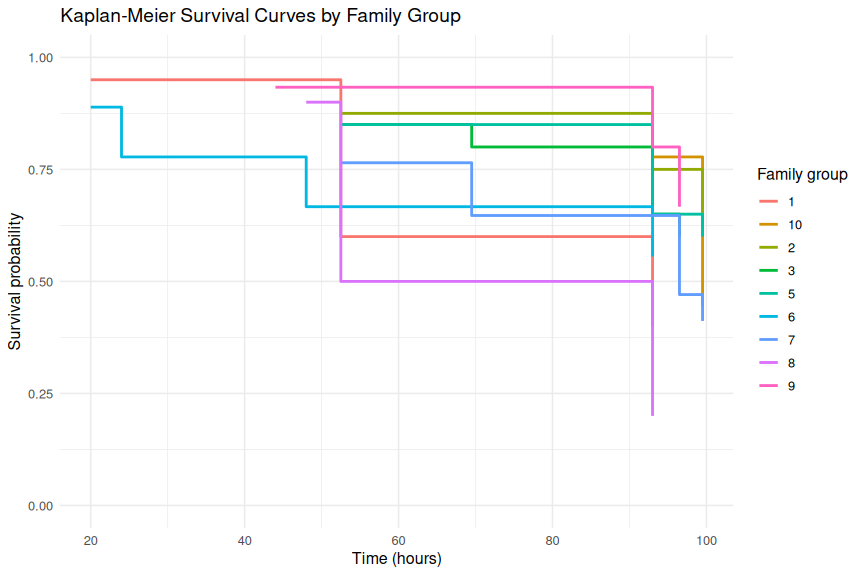
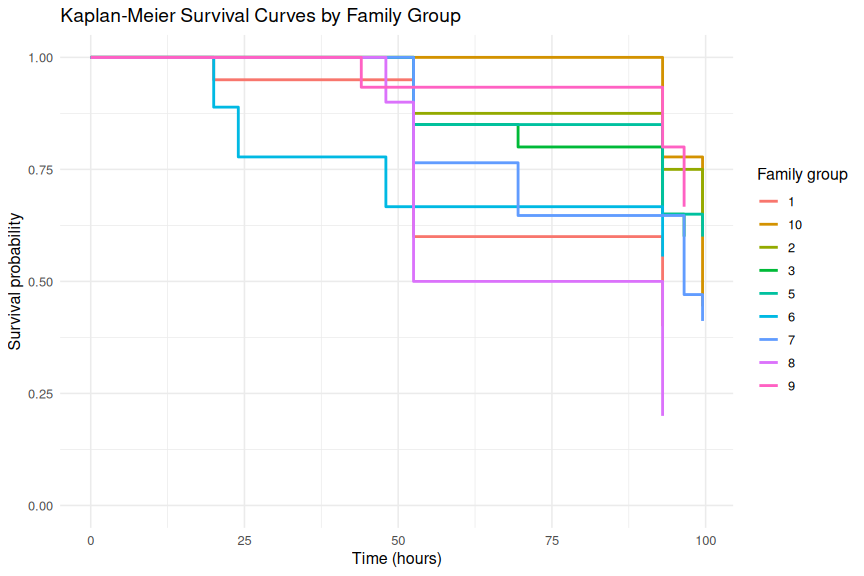
update plotting data frames to start from T0 for Kaplan-Meier results

diff --git a/scripts/00.00-mgig-heat-survivorship.md b/scripts/00.00-mgig-heat-survivorship.md
@@ -93,7 +93,7 @@ str(survivorship_raw)
       ..   imageJ_ID = col_logical(),
       ..   notes = col_character()
       .. )
-     - attr(*, "problems")=<pointer: 0x55a5d8c75430> 
+     - attr(*, "problems")=<pointer: 0x561a2453d570> 
 
 ## 1.2 ANALYSIS
 
@@ -161,11 +161,13 @@ individual_survival <- survivorship_clean %>%
     summarise(
         family_group = first(family_group[!is.na(family_group)]),
         event = if_else(any(!alive), 1L, 0L),
-        time_to_event = if_else(
-            any(!alive),
-            min(timepoint_hrs[!alive]),
-            max(timepoint_hrs)
-        ),
+        time_to_event = {
+            if (any(!alive)) {
+                min(timepoint_hrs[!alive])
+            } else {
+                max(timepoint_hrs)
+            }
+        },
         n_observations = n(),
         .groups = "drop"
     )
@@ -330,29 +332,50 @@ if (p_val < 0.05) {
 ### 1.2.5 Convert Kaplan-Meier fit to plotting data frames
 
 ``` r
-km_overall_df <- summary(km_fit_overall) %>%
-    with(
-        data.frame(
-            time = time,
-            surv = surv,
-            n_risk = n.risk,
-            n_event = n.event,
-            n_censor = n.censor
+km_overall_df <- bind_rows(
+    data.frame(
+        time = 0,
+        surv = 1,
+        n_risk = km_fit_overall$n,
+        n_event = 0,
+        n_censor = 0
+    ),
+    summary(km_fit_overall) %>%
+        with(
+            data.frame(
+                time = time,
+                surv = surv,
+                n_risk = n.risk,
+                n_event = n.event,
+                n_censor = n.censor
+            )
         )
-    )
+) %>%
+    arrange(time)
 
-km_family_df <- summary(km_fit_by_family) %>%
-    with(
-        data.frame(
-            time = time,
-            surv = surv,
-            n_risk = n.risk,
-            n_event = n.event,
-            n_censor = n.censor,
-            strata = strata
+km_family_df <- bind_rows(
+    data.frame(
+        time = 0,
+        surv = 1,
+        n_risk = as.numeric(km_fit_by_family$n),
+        n_event = 0,
+        n_censor = 0,
+        strata = names(km_fit_by_family$strata)
+    ),
+    summary(km_fit_by_family) %>%
+        with(
+            data.frame(
+                time = time,
+                surv = surv,
+                n_risk = n.risk,
+                n_event = n.event,
+                n_censor = n.censor,
+                strata = strata
+            )
         )
-    ) %>%
-    mutate(family_group = sub("^family_group=", "", strata))
+) %>%
+    mutate(family_group = sub("^family_group=", "", strata)) %>%
+    arrange(family_group, time)
 
 # Preview newly created objects
 cat("\n=== km_overall_df: head() ===\n")
@@ -368,39 +391,39 @@ str(km_family_df)
 
     === km_overall_df: head() ===
       time      surv n_risk n_event n_censor
-    1 20.0 0.9843750    128       2        0
-    2 24.0 0.9765625    126       1        0
-    3 44.0 0.9687500    125       1        0
-    4 48.0 0.9531250    124       2        0
-    5 52.5 0.7812500    122      22        0
-    6 69.5 0.7578125    100       3        0
+    1  0.0 1.0000000    128       0        0
+    2 20.0 0.9843750    128       2        0
+    3 24.0 0.9765625    126       1        0
+    4 44.0 0.9687500    125       1        0
+    5 48.0 0.9531250    124       2        0
+    6 52.5 0.7812500    122      22        0
 
     === km_overall_df: str() ===
-    'data.frame':   9 obs. of  5 variables:
-     $ time    : num  20 24 44 48 52.5 69.5 93 96.5 99.5
-     $ surv    : num  0.984 0.977 0.969 0.953 0.781 ...
-     $ n_risk  : num  128 126 125 124 122 100 97 77 71
-     $ n_event : num  2 1 1 2 22 3 20 6 6
-     $ n_censor: num  0 0 0 0 0 0 0 0 65
+    'data.frame':   10 obs. of  5 variables:
+     $ time    : num  0 20 24 44 48 52.5 69.5 93 96.5 99.5
+     $ surv    : num  1 0.984 0.977 0.969 0.953 ...
+     $ n_risk  : num  128 128 126 125 124 122 100 97 77 71
+     $ n_event : num  0 2 1 1 2 22 3 20 6 6
+     $ n_censor: num  0 0 0 0 0 0 0 0 0 65
 
     === km_family_df: head() ===
       time      surv n_risk n_event n_censor          strata family_group
-    1 20.0 0.9500000     20       1        0  family_group=1            1
-    2 52.5 0.6000000     19       7        0  family_group=1            1
-    3 93.0 0.4000000     12       4        0  family_group=1            1
-    4 93.0 0.7777778      9       2        0 family_group=10           10
-    5 99.5 0.4444444      7       3        4 family_group=10           10
-    6 52.5 0.8750000      8       1        0  family_group=2            2
+    1  0.0 1.0000000     20       0        0  family_group=1            1
+    2 20.0 0.9500000     20       1        0  family_group=1            1
+    3 52.5 0.6000000     19       7        0  family_group=1            1
+    4 93.0 0.4000000     12       4        0  family_group=1            1
+    5  0.0 1.0000000      9       0        0 family_group=10           10
+    6 93.0 0.7777778      9       2        0 family_group=10           10
 
     === km_family_df: str() ===
-    'data.frame':   29 obs. of  7 variables:
-     $ time        : num  20 52.5 93 93 99.5 52.5 93 99.5 52.5 69.5 ...
-     $ surv        : num  0.95 0.6 0.4 0.778 0.444 ...
-     $ n_risk      : num  20 19 12 9 7 8 7 6 20 17 ...
-     $ n_event     : num  1 7 4 2 3 1 1 1 3 1 ...
-     $ n_censor    : num  0 0 0 0 4 0 0 5 0 0 ...
-     $ strata      : Factor w/ 9 levels "family_group=1",..: 1 1 1 2 2 3 3 3 4 4 ...
-     $ family_group: chr  "1" "1" "1" "10" ...
+    'data.frame':   38 obs. of  7 variables:
+     $ time        : num  0 20 52.5 93 0 93 99.5 0 52.5 93 ...
+     $ surv        : num  1 0.95 0.6 0.4 1 ...
+     $ n_risk      : num  20 20 19 12 9 9 7 8 8 7 ...
+     $ n_event     : num  0 1 7 4 0 2 3 0 1 1 ...
+     $ n_censor    : num  0 0 0 0 0 0 4 0 0 0 ...
+     $ strata      : chr  "family_group=1" "family_group=1" "family_group=1" "family_group=1" ...
+     $ family_group: chr  "1" "1" "1" "1" ...
 
 ## 1.3 PLOTS
 